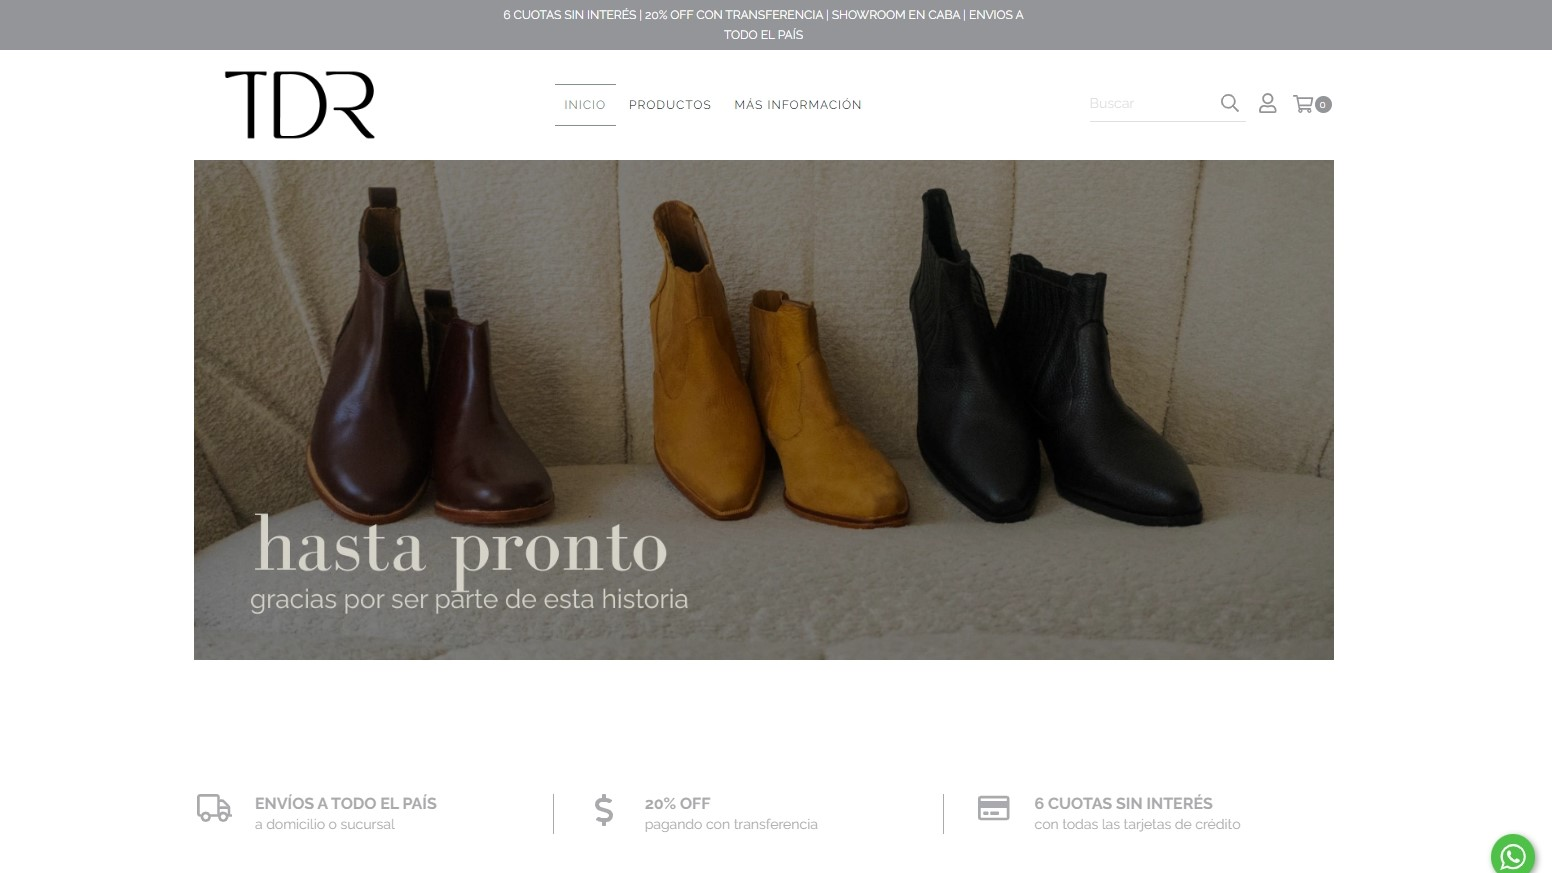
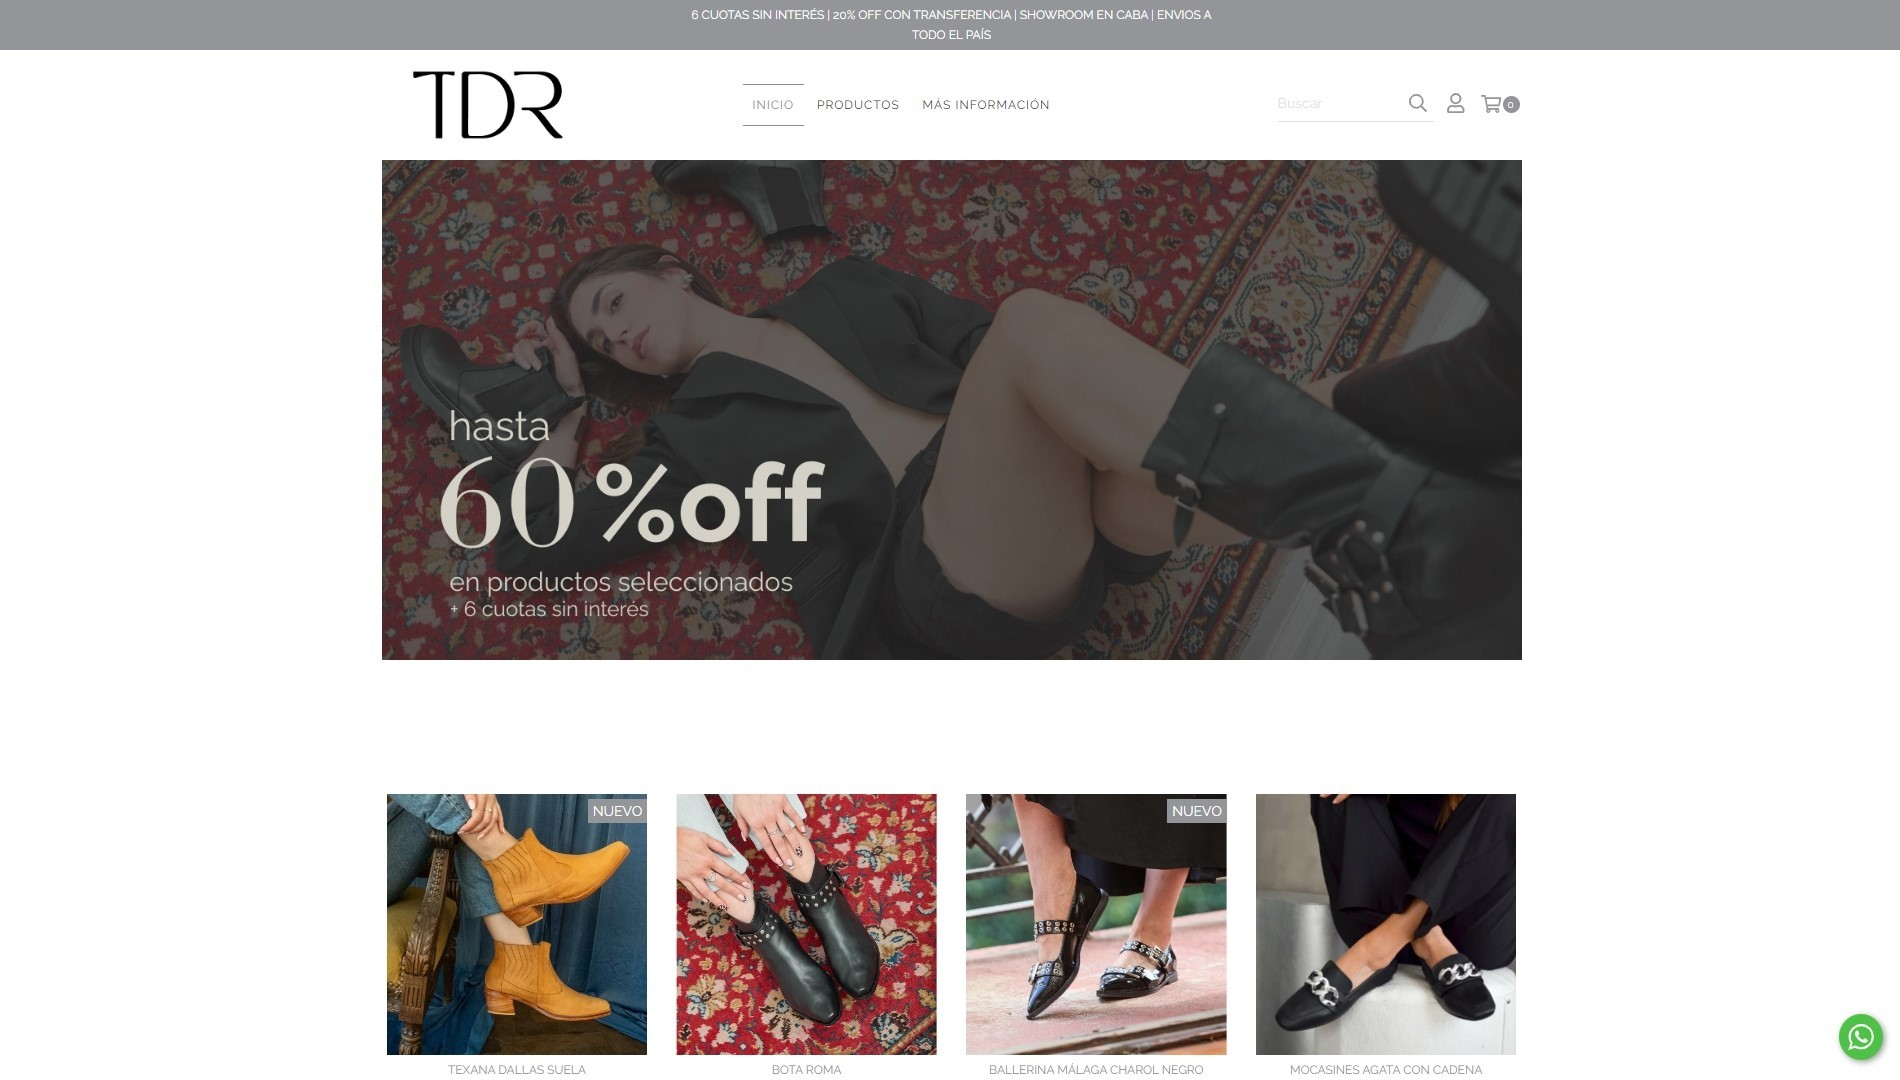
agregado Shopify en texto y Wordpress en texto y web Miel Don Demetrio

diff --git a/index.html b/index.html
@@ -6,7 +6,8 @@
 
     <title>Paola Torres | Desarrollo web y presencia online para negocios</title>
 
-    <meta name="description" content="Desarrollo web y presencia online para negocios. Google Maps, WhatsApp Business, páginas web claras, tiendas online y maquetación web a partir de diseño.">
+    <meta name="description" content="Desarrollo web para emprendedores y negocios. Configuración de Google Maps y WhatsApp Business, páginas web en HTML y WordPress, tiendas online en Tienda Nube y Shopify, y maquetación web a partir de diseños en Figma.">
+
 
     <meta name="author" content="Paola Torres">
     <meta name="robots" content="index, follow">
@@ -22,6 +23,7 @@
     <!-- Open graph para compartir en redes -->
     <meta property="og:title" content="Paola Torres | Desarrollo web y presencia online para negocios y profesionales">
     <meta property="og:description" content="Ayudo a que tu negocio sea visible en internet con Google Maps, WhatsApp Business, páginas web claras y tiendas online listas para vender.">
+
     <meta property="og:type" content="website">
     <meta property="og:url" content="https://paolatorres.com.ar/">
     <meta property="og:image" content="https://paolatorres.com.ar/img/og-paola-torres-desarrollo-web-presencia-online.jpg">    
@@ -63,7 +65,7 @@
     "@type": "ProfessionalService",
     "name": "Paola Torres",
     "url": "https://paolatorres.com.ar",
-    "description": "Desarrollo web y presencia online para negocios. Google Maps, WhatsApp Business, páginas web claras y tiendas online.",
+    "description": "Desarrollo web y presencia online para negocios. Google Maps, WhatsApp Business, páginas web claras en HTML y WordPress, y tiendas online Tienda Nube y Shopify.",
     "areaServed": {
     "@type": "Country",
     "name": "Argentina"
@@ -81,8 +83,11 @@
     "Google Maps para negocios",
     "WhatsApp Business",
     "Desarrollo web",
+    "HTML y CSS",
+    "WordPress",
     "Tiendas online",
     "Tienda Nube",
+    "Shopify",
     "Maquetación web"
     ],
     "makesOffer": [
@@ -104,7 +109,7 @@
         "@type": "Offer",
         "itemOffered": {
         "@type": "Service",
-        "name": "Configuración de tienda online"
+        "name": "Desarrollo web y tiendas online en Tienda Nube y Shopify"
         }
     }
     ]
@@ -335,10 +340,10 @@
                             </h3>
 
                             <p class="service__description">
-                            Configuración inicial de negocio en Tienda Nube
+                            Configuración inicial de negocio en Tienda Nube y Shopify
                             para comenzar a vender online.
                             </p>
-        
+
                             <button 
                             class="btn--secondary"
                             data-bs-toggle="collapse"
@@ -409,13 +414,12 @@
 
             <!-- texto oculto para SEO -->
             <p class="visually-hidden">
-            Servicios de desarrollo web para negocios y profesionales.
-            Configuración de Google Maps, WhatsApp Business, páginas web claras,
-            y tiendas online listas para vender en Argentina.
-            Maquetación desde Figma.
-            diseño web Argentina y para toda latinoamerica.
-            creación de páginas web.
-            desarrollo web para negocios.
+            Servicios de desarrollo web para emprendedores, profesionales y negocios.
+            Configuración de Google Maps y WhatsApp Business.
+            Desarrollo de páginas web en HTML y WordPress.
+            Tiendas online en Tienda Nube y Shopify.
+            Maquetación web a partir de diseños en Figma para agencias y diseñadores.
+            Desarrollo web en Argentina y trabajo remoto para Latinoamérica.
             </p>            
         </section>
 
@@ -442,6 +446,28 @@
                 <div class="examples__item">
 
                     <div>
+                        <h3 class="examples__heading">Miel Don Demetrio</h3>
+                        <p class="examples__description">Sitio institucional desarrollado en WordPress para una marca de productos apícolas, con catálogo de productos, formulario de contacto y diseño responsive.</p>
+                        <a href="https://mieldondemetrio.com.ar/" target="_blank" class="btn--secondary">Ver sitio</a>
+                    </div>
+
+
+                    <a class="examples__mockups" href="https://mieldondemetrio.com.ar/" target="_blank">
+                        <div class="mockup mockup--desktop">
+                            <img src="./img/exampleMieldondemetrio-MonitorNotebook.jpeg" loading="lazy" alt="Sitio institucional en WordPress para Miel Don Demetrio">
+                        </div>
+
+                        <div class="mockup mockup--mobile">
+                            <img src="./img/exampleMieldondemetrio-mobileiPhoneSE.jpeg" loading="lazy" alt="Versión móvil del sitio web">
+                        </div>                            
+                    </a>
+
+                </div>
+
+                <!-- trabajo 2 -->
+                <div class="examples__item">
+
+                    <div>
                         <h3 class="examples__heading">Visitas Guiadas en inglés</h3>
                         <p class="examples__description">Sitio bilingüe con prioridad en inglés, preparado para aparecer cuando turistas estadounidenses buscan visitas guiadas.</p>
                         <a href="https://paolatorresmontangie.github.io/BAthematicwalkingtours/" target="_blank" class="btn--secondary">Ver sitio</a>
@@ -459,64 +485,19 @@
                     </a>
 
                 </div>
-
-                <!-- trabajo 2 -->
-                <div class="examples__item">
-
-                    <div>
-                        <h3 class="examples__heading">Asesoría de imagen</h3>
-                        <p class="examples__description">Rediseño del sitio, con una estética femenina equilibrada y cálida, pensada para transmitir cercanía y confianza.</p>
-                        <a href="https://paolatorresmontangie.github.io/Unamujerreal/" target="_blank" class="btn--secondary">Ver sitio</a>
-                    </div>
-
-
-                    <a class="examples__mockups" href="https://paolatorresmontangie.github.io/Unamujerreal/" target="_blank">
-
-                        <div class="mockup mockup--desktop">
-                            <img src="./img/exampleAsesoriaImagen-desktop.jpeg" loading="lazy" alt="Sitio web para asesoría de imagen con diseño femenino y elegante">
-                        </div>
-
-                        <div class="mockup mockup--mobile">
-                            <img src="./img/exampleAsesoriaImagen-mobile.jpeg" loading="lazy" alt="Versión móvil del sitio web">
-                        </div>
-                    </a>
-
-                </div>
-
+                               
 
                 <!-- trabajo 3 -->
-                <div class="examples__item">
-
-                    <div>
-                        <h3 class="examples__heading">Desarrollo de tienda online</h3>
-                        <p class="examples__description">Programación a partir de un diseño previo, cuidando que cada detalle funcione correctamente en todas las pantallas.</p>
-                        <a href="https://paolatorresmontangie.github.io/Lowtian/" target="_blank" class="btn--secondary">Ver sitio</a>
-                    </div>
-
-                    <a class="examples__mockups" href="https://paolatorresmontangie.github.io/Lowtian/" target="_blank">
-                        
-                        <div class="mockup mockup--desktop">
-                            <img src="./img/exampleLowtian-desktop.jpeg" loading="lazy" alt="Maquetación de tienda online a partir de un diseño previo">
-                        </div>
-
-                        <div class="mockup mockup--mobile">
-                            <img src="./img/exampleLowtian-mobile.jpeg" loading="lazy" alt="Versión móvil del sitio web">
-                        </div>
-                    </a>
-
-                </div>
-
-                <!-- trabajo 4 -->
                 <div class="examples__item">
 
                     <div>
                         <h3 class="examples__heading">Tienda online configurada para vender</h3>
                         <p class="examples__description">Configuración completa con productos, medios de pago y envíos integrados.
                         Proceso de compra claro, fácil de administrar y respaldado por una plataforma reconocida que brinda seguridad al comprador.</p>
-                        <a href="https://www.tacodereina.com.ar/" target="_blank" class="btn--secondary">Ver sitio</a>
+                        <a href="https://tacodereina.mitiendanube.com/" target="_blank" class="btn--secondary">Ver sitio</a>
                     </div>
 
-                    <a class="examples__mockups" href="https://www.tacodereina.com.ar/" target="_blank">
+                    <a class="examples__mockups" href="https://tacodereina.mitiendanube.com/" target="_blank">
                         <div class="mockup mockup--desktop">
                             <img src="./img/exampleTDR-desktop.jpeg" loading="lazy" alt="Configuración de tienda online en Tienda Nube con productos y pagos integrados">
                         </div>
@@ -528,7 +509,31 @@
 
                 </div>
 
-            </div>
+
+                <!-- trabajo 4 -->
+                <div class="examples__item">
+
+                    <div>
+                        <h3 class="examples__heading">Maquetación web desde Figma</h3>
+                        <p class="examples__description">
+                        Desarrollo de un hero responsive a partir de un diseño en Figma, cuidando que cada detalle se vea y funcione correctamente en desktop y dispositivos móviles.</p>
+                        <a href="https://paolatorresmontangie.github.io/Lowtian/" target="_blank" class="btn--secondary">Ver sitio</a>
+                    </div>
+
+                    <a class="examples__mockups" href="https://paolatorresmontangie.github.io/Lowtian/" target="_blank">
+                        
+                        <div class="mockup mockup--desktop">
+                            <img src="./img/exampleLowtian-desktop.jpeg" loading="lazy" alt="Hero maquetado a partir de un diseño en Figma">
+                        </div>
+
+                        <div class="mockup mockup--mobile">
+                            <img src="./img/exampleLowtian-mobile.jpeg" loading="lazy" alt="Versión móvil del sitio web">
+                        </div>
+                    </a>
+
+                </div>
+
+           </div>
             
         </section>        
 
